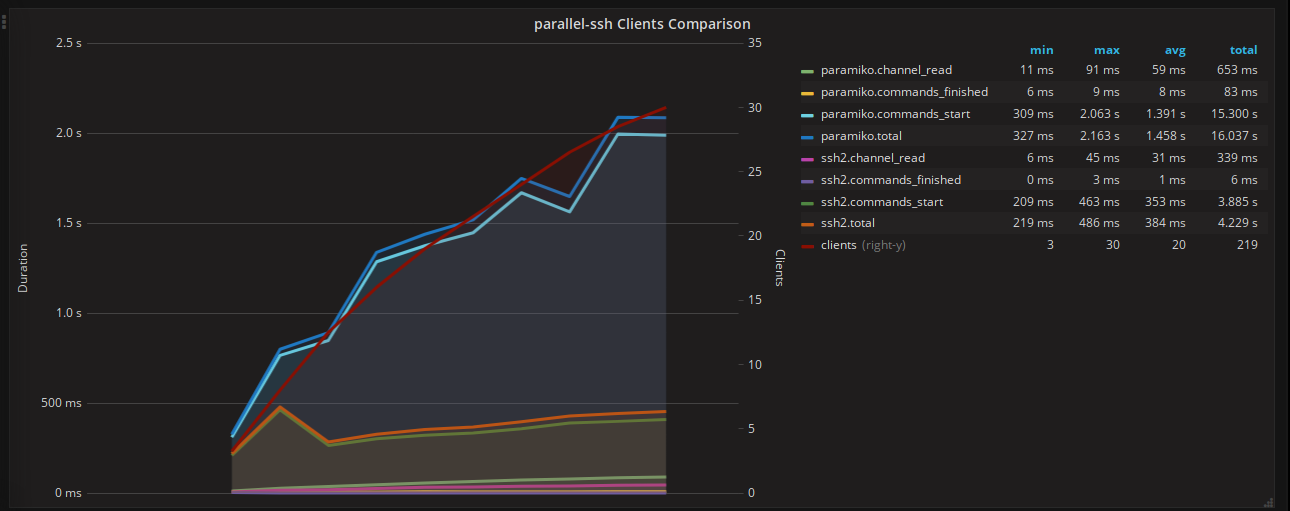
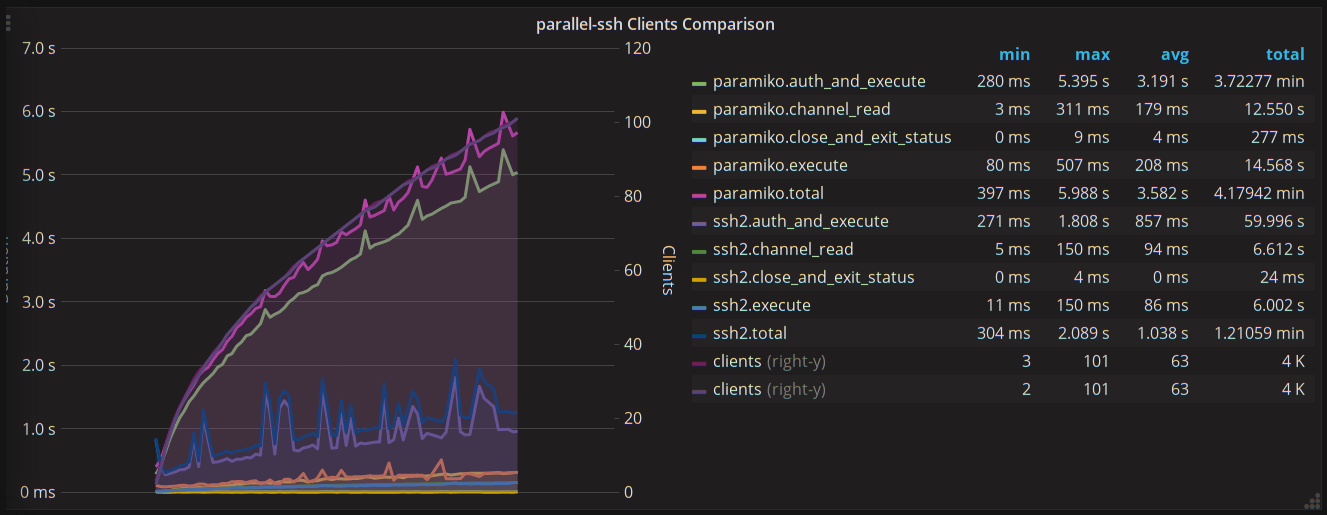
Added parallel ssh clients comparison post. Updated about page

diff --git a/content/post/parallel-ssh-libssh2.md b/content/post/parallel-ssh-libssh2.md
@@ -1,44 +1,108 @@
 ---
 title: "Parallel Ssh Libssh2"
-date: 2017-10-01T19:57:01+01:00
+date: 2017-10-14T15:00:01+01:00
 subtitle: ""
 tags: [parallel-ssh,libssh2,non-blocking,ssh]
 ---
 
 In a [previous post](../ssh2-python) a comparison was shown between two SSH library options for Python, with emphasis on their performance using native threads for scaling purposes.
 
-For this post, their non-blocking performance using the gevent library will be compared, both as the two SSH library options found in [parallel-ssh](https://github.com/ParallelSSH/parallel-ssh).
+For this post, their non-blocking performance using the gevent library will be compared as the two SSH library options available now in [parallel-ssh](https://github.com/ParallelSSH/parallel-ssh).
 
 # Test Setup
 
-Test script (see appendix) consists of `parallel-ssh` being used in exactly the same way with the two available parallel client in the library, using Paramiko and libssh2 respectively as the underlying SSH library.
+Test script (see appendix) consists of identical `parallel-ssh` code for the two available parallel clients in the library, using `paramiko` and `libssh2` via `ssh2-python` respectively as the underlying SSH libraries. The latest version of the library as of this time of writing was used - `1.2.0` - with latest underlying libraries as installed by its requirements and latest version of `gevent` - `1.2.2`.
 
-The script creates SSH sessions in parallel to a local to the client SSH server (OpenSSH) via loop back device, with a pool size starting from one and increasing by one until completion, there by increasing concurrency by one each time.
+The script creates SSH sessions in parallel to a local to the client SSH server via loop back device, with concurrencystarting from one and increasing by one until completion.
 
-A maximum pool size - and concurrency - of thirty is used for the comparison. The Paramiko based client starts exhibiting connection failures and dead locks beyond this number, though further scaling for the libssh2 based client is shown on its own subsequently.
+A maximum concurrency of one hundred sessions is used for the comparison test.
 
-A single remote command, `cat` of a static file, is performed and standard output read one line at a time.
+A single remote command, `cat` of a [26KB static file](https://github.com/ParallelSSH/ssh2-python/blob/master/LICENSE), is performed and standard output read one line at a time as parsed by the respective libraries.
 
 Timings are shown for:
 
-* Commands start - connection, authentication and execute command sent for all hosts
-* Commands end - wait for execute completion, close execute channel (SSH session remains open)
+* Auth and execute - connection, authentication and execute command sent for all hosts
+* Close and exit status - wait for execute completion, close execute channel and get exit status (SSH session remains open)
+* Execute - same remote command executed again on the same SSH session
 * Channel read - read complete remote output line by line
 
-The static file that is used for the `cat` remote command is a `26KB` [license file from the parallel-ssh](https://github.com/ParallelSSH/parallel-ssh/blob/master/COPYING).
+All durations are in milliseconds (ms) or multiples of. All tests performed on Linux, kernel version `4.4` on a six core CPU and OpenSSH `7.5r1` with OpenSSL `1.0.2l`.
 
-All durations are in milliseconds (ms).
+Click on images for larger versions.
 
 ## Test Results
 
 Graphs show median values per five second intervals.
 
-Here is how the two SSH clients compare on the three above timings plus total time spent.
+Here is how the two SSH clients compare on the above timings plus total time spent.
 
-Click on image for a larger version.
+### Clients Comparison
 
-[![parallel-ssh ssh2 paramiko](/static/pssh_clients.png "Execute and read")](/static/pssh_clients.png)
+Shown below is time taken for *all* hosts in total.
 
-## Further scaling
+[![parallel-ssh ssh2 paramiko](/static/pssh_clients.png "Clients Comparison")](/static/pssh_clients.png)
 
-This graph shows further scaling of the `libssh2` based client up to one hundred concurrent sessions.
+## Individual Results
+
+Results for the clients individually, including CPU and memory usage graphs.
+
+[![parallel-ssh ssh2](/static/pssh_ssh2.png "Individual SSH2")](/static/pssh_ssh2.png)
+
+[![parallel-ssh paramiko](/static/pssh_paramiko.png "Individual paramiko")](/static/pssh_paramiko.png)
+
+The `ssh2-python` based client is shown to use about 250MB less memory and fully utilising a little more than three cores at highest concurrency, with the `paramiko` client a little more than one core.
+
+## Notes
+
+Further scaling of the ``ssh2`` client is possible, though ``gevent`` and event loop overhead leads to diminishing returns, seen in the further scaling graph as intermittent spikes in latency that increase in frequency as concurrency ramps up. No limit was found as to how far concurrency could be increased.
+
+On already authenticated sessions, executing new commands remains fairly low latency on the `ssh2` client even at high concurrency levels.
+
+The paramiko client would also often experience dead locks at all concurrency levels.
+
+# Relative Performance
+
+Relative performance of average times of the two libraries for the duration of the test at one hundred concurrent sessions.
+
+For example if a `paramiko` operation were twice as fast as the equivalent `ssh2-python` operation, its relative performance would be `x0.5` of `ssh2-python` whereas identical durations would result in `x1` relative performance.
+
+
+Operation| paramiko | ssh2 | paramiko/ssh2 relative performance
+---------| ---------| -----| -------------
+`auth and execute` |  3.018 sec | 1.013 sec | `2.98x`
+`close and exit status` | 4 ms | 0 ms | `inf`
+`execute` | 205 ms |  100 ms | `2.05x`
+`channel read` | 165 ms | 89 ms | `1.85x`
+`total` | 3.392 sec | 1.203 sec | `2.82x`
+
+
+# Postface
+
+On average, the `ssh2-python` (`libssh2`) based client in `parallel-ssh` is shown to be about three times faster than the existing paramiko based client.
+
+Note that SFTP operations which [were previously shown to benefit the most](../ssh2-python) are not shown here as tests are against a single, local, SSH server and `parallel-ssh` SFTP operations are for copying files which would overwrite each other if copied to/from the same server.
+
+It is also worth pointing out that this test puts a lot of strain on gevent and the event loop as the commands are short lived, causing contention on the event loop from all the coroutines wanting to execute. This can be seen in the graphs by the intermittent spikes in latency for both clients which increase in frequency as concurrency ramps up.
+
+For longer lived remote commands, scaling can continue before diminishing returns stemming from event loop and gevent overhead.
+
+In all, tests show good scaling for the native library based client and the benefits of using native code extensions in Python libraries.
+
+Combining native code extensions for network libraries with a non-blocking mode and non-blocking network libraries like `gevent` allows for very good performance while at the same time benefiting from the ease of use and conciseness of the Python language.
+
+In future it would be interesting to examine further scaling of gevent and the event loop via native threads which is only possible with native code extensions that release Python's GIL, putting `parallel-ssh` in a good position to take advantage of.
+
+# Appendix
+
+Test script and dashboard used can be found below:
+
+* [Performance test script](https://gist.githubusercontent.com/pkittenis/e0221acae77fd0fc251951dd9c6aa69b)
+* [Grafana Dashboard for graphs](https://gist.github.com/pkittenis/c47938539d2e8880ca920f2f1cc02abe)
+
+[Docker compose file](https://github.com/InfluxGraph/influxgraph/blob/master/docker/compose/) can be used as-is to easily setup the dashboard, API and DB services as described below.
+
+The test script writes data to a local [InfluxDB](https://portal.influxdata.com/downloads) via its Graphite service using a `measurement.field*` [template](https://github.com/influxdata/influxdb/tree/master/services/graphite#templates).
+
+Graphs were generated by [Grafana](https://grafana.com), as queried from InfluxDB by [InfluxGraph](https://github.com/InfluxGraph/influxgraph) using the [same template configuration as InfluxDB](https://github.com/InfluxGraph/influxgraph#influxdb-graphite-metric-templates).
+
+To replicate results, take care to use the exact versions of the libraries used here, including `libssh2`.

diff --git a/content/about.md b/content/about.md
@@ -3,6 +3,8 @@ title: "About"
 date: 2017-08-26T01:16:31+01:00
 ---
 
-Full-stack developer from hardware, OS and applications in C/C++, Python, Scala, Ruby, multiple query languages and more. More than a decade and counting experience in areas from low latency trading platforms and large scale distributed back-end micro services utilising big data NoSQL databases, NoSQL, SQL and SQL-like development, time series data and much more.
+Full-stack developer from hardware, OS and applications in C/C++, Python, Go, Java, Scala, Ruby, multiple query languages and more. More than a decade and counting experience in areas from low latency trading platforms and large scale distributed back-end micro services utilising big data NoSQL databases, NoSQL, SQL and SQL-like development, time series data and much more.
 
 Lives and works in London. All views and opinions expressed are the authors and in no way relate to any past, current or future employers.
+
+For consulting and contracting queries the author may be contacted directly via the email button below.
